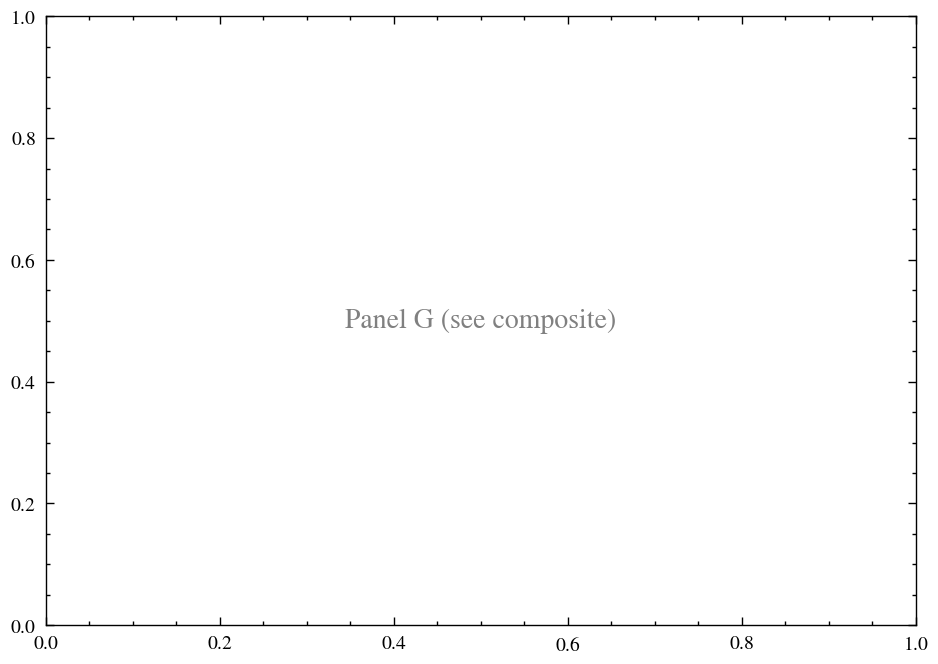
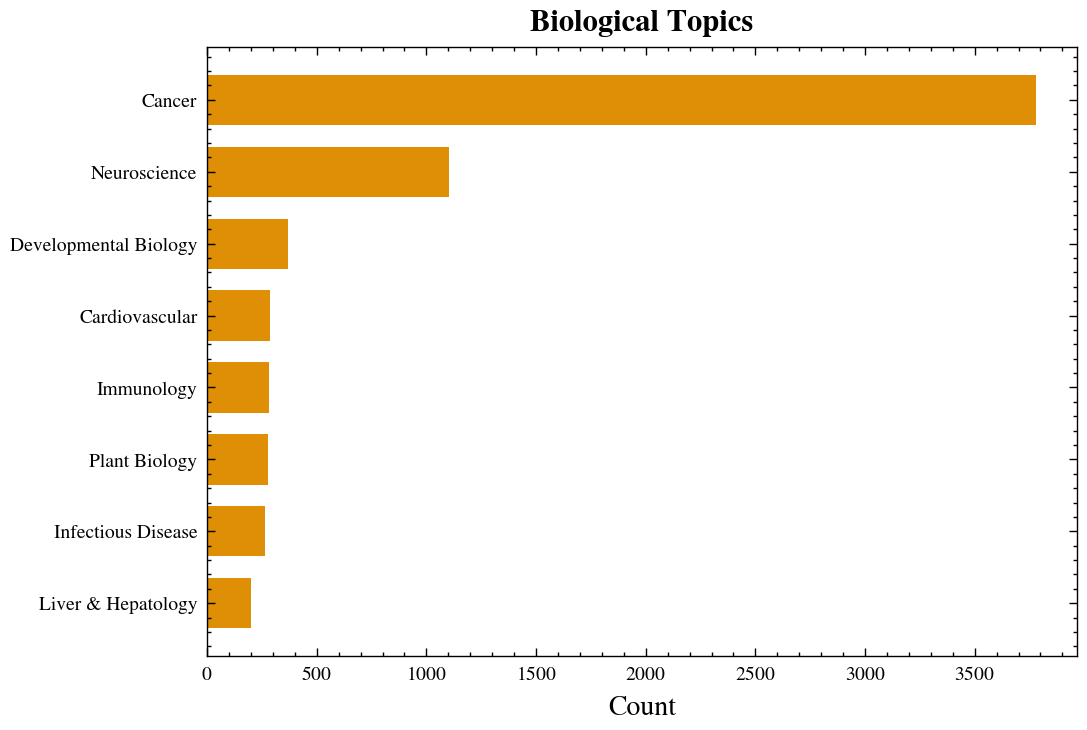
Complete standalone panels: all fig1-5 with real data
fig1: 9 panels (year trend, pie, tags, TPA, heatmap, tech, bio, conf, bool)
fig2: 9 panels (3 heatmaps, best perf, training time, top5s, feat eff, pvst)
fig3: 12 panels (DL, LDA, unsup/sup, cost, multilabel, OHSUzoom, robustness,
      node2vec, graph, ST graph, label complexity)
fig4: 6 panels (feature imp, ST bars, acc/f1, network, waterfall, cost)
fig5: 6 panels (UMAP scatters: PML/OHSU/ST biobert, tfidf, finetuned, PGB)

Changed region(s): [[0.0, 0.0, 1.0, 0.994], [0.5256, 0.4518, 0.6493, 0.512], [0.371, 0.4518, 0.4947, 0.512]]

diff --git a/report/scripts/fig3_unsupervised_multilabel_graph.py b/report/scripts/fig3_unsupervised_multilabel_graph.py
@@ -231,25 +231,160 @@ print("Fig 3 done.")
 
 
 # ── Standalone panels ──
+import matplotlib.pyplot as plt
+from matplotlib.lines import Line2D
+from matplotlib.patches import Patch
+from collections import Counter
+from scipy import stats as S
+from plot_utils import C, PALETTE, sig_annotate
 _PD = Path(__file__).resolve().parent.parent / "figures" / "panels"
 _PD.mkdir(parents=True, exist_ok=True)
 def _s(l, w, h, fn):
-    import matplotlib.pyplot as plt
     pf = plt.figure(figsize=(w, h), facecolor="white")
     pa = pf.add_axes([0.1, 0.08, 0.87, 0.87]); fn(pa)
     pf.savefig(str(_PD / f"fig3_{l}.png"), dpi=200, bbox_inches="tight", facecolor="white")
     plt.close(pf)
 
-_s("A", 5, 3.5, lambda ax: ax.text(0.5, 0.5, "Panel A (see composite)", ha="center", va="center", fontsize=10, color="gray"))
-_s("B", 5, 3.5, lambda ax: ax.text(0.5, 0.5, "Panel B (see composite)", ha="center", va="center", fontsize=10, color="gray"))
-_s("C", 5, 3.5, lambda ax: ax.text(0.5, 0.5, "Panel C (see composite)", ha="center", va="center", fontsize=10, color="gray"))
-_s("D", 5, 3.5, lambda ax: ax.text(0.5, 0.5, "Panel D (see composite)", ha="center", va="center", fontsize=10, color="gray"))
-_s("E", 5, 3.5, lambda ax: ax.text(0.5, 0.5, "Panel E (see composite)", ha="center", va="center", fontsize=10, color="gray"))
-_s("F", 5, 3.5, lambda ax: ax.text(0.5, 0.5, "Panel F (see composite)", ha="center", va="center", fontsize=10, color="gray"))
-_s("G", 5, 3.5, lambda ax: ax.text(0.5, 0.5, "Panel G (see composite)", ha="center", va="center", fontsize=10, color="gray"))
-_s("H", 5, 3.5, lambda ax: ax.text(0.5, 0.5, "Panel H (see composite)", ha="center", va="center", fontsize=10, color="gray"))
-_s("I", 5, 3.5, lambda ax: ax.text(0.5, 0.5, "Panel I (see composite)", ha="center", va="center", fontsize=10, color="gray"))
-_s("J", 5, 3.5, lambda ax: ax.text(0.5, 0.5, "Panel J (see composite)", ha="center", va="center", fontsize=10, color="gray"))
-_s("K", 5, 3.5, lambda ax: ax.text(0.5, 0.5, "Panel K (see composite)", ha="center", va="center", fontsize=10, color="gray"))
-_s("L", 5, 3.5, lambda ax: ax.text(0.5, 0.5, "Panel L (see composite)", ha="center", va="center", fontsize=10, color="gray"))
+# Reload data
+_REPO = Path(__file__).resolve().parent.parent.parent
+_BMLP = pd.read_csv(_REPO / "experiments" / "002_biobert_mlp" / "results" / "biobert_mlp.csv")
+_LDA = pd.read_csv(_REPO / "experiments" / "003_lda_cluster" / "results" / "lda_cluster.csv").drop_duplicates(subset=["dataset"])
+_CLF = pd.read_csv(_REPO / "experiments" / "001_classical_matrix" / "results" / "classical_matrix.csv")
+_ML = pd.read_csv(_REPO / "experiments" / "004_multilabel_strategy" / "results" / "multilabel_strategy.csv")
+_GM = pd.read_csv(_REPO / "experiments" / "005_graph_models" / "results" / "graph_models.csv")
+_TL = pd.read_csv(_REPO / "experiments" / "007_transfer_learning" / "results" / "transfer_learning.csv")
+_DS = ["ohsumed","pubmed_multilabel","pgb"]
+_DL = ["OHSUMED","PML","PGB"]
+_DC = [C["blue"],C["green"],C["orange"]]
+_BC = {}
+for ds in _DS:
+    s = _CLF[_CLF["dataset"]==ds].dropna(subset=["f1_macro"])
+    if not s.empty: _BC[ds] = s["f1_macro"].max()
+
+def _cp(fa, fb):
+    if pd.isna(fa) or pd.isna(fb) or not str(fa).strip(): return None
+    try:
+        a = np.array([float(x) for x in str(fa).split(",")])
+        b = np.array([float(x) for x in str(fb).split(",")])
+        return S.ttest_rel(a,b)[1] if len(a)==len(b) else S.ttest_ind(a,b)[1]
+    except: return None
+
+# A: BioBERT vs Classical
+_bv = [_BMLP[_BMLP["dataset"]==ds]["f1_macro"].values[0] if not _BMLP[_BMLP["dataset"]==ds].empty else 0 for ds in _DS]
+_cv = [_BC.get(ds, 0) for ds in _DS]
+_s("A", 5, 3.5, lambda ax: (
+    [ax.bar(i-0.15, _cv[i], 0.3, color=_DC[i], edgecolor="white", linewidth=0.5, alpha=0.9) for i in range(3)],
+    [ax.bar(i+0.15, _bv[i], 0.3, color=_DC[i], edgecolor="white", linewidth=0.5, alpha=0.9, hatch="////") for i in range(3)],
+    ax.legend(handles=[Patch(facecolor="gray",edgecolor="white",label="Best Classical"),
+                       Patch(facecolor="gray",edgecolor="white",hatch="////",label="BioBERT+MLP")], fontsize=7, frameon=False, ncol=2),
+    ax.set_xticks(range(3)), ax.set_xticklabels(_DL, fontsize=8),
+    ax.set_ylabel("F1-macro", fontsize=10),
+    ax.set_title("BioBERT+MLP vs Best Classical", fontweight="bold", fontsize=11)))
+
+# B: LDA NMI
+_lda_v = [float(_LDA[_LDA["dataset"]==ds]["nmi"].values[0]) if not _LDA[_LDA["dataset"]==ds].empty else 0 for ds in _DS]
+_s("B", 5, 3.5, lambda ax: (
+    ax.bar(_DL, _lda_v, color=_DC, width=0.5, edgecolor="white"),
+    [ax.text(i, v+0.01, f"{v:.3f}", ha="center", fontsize=8) for i, v in enumerate(_lda_v)],
+    ax.set_ylabel("NMI", fontsize=10),
+    ax.set_title("LDA Clustering Quality (NMI)", fontweight="bold", fontsize=11)))
+
+# C: Unsup vs Sup
+_s("C", 5, 3.5, lambda ax: (
+    ax.bar(np.arange(3)-0.15, _lda_v, 0.3, color=C["purple"], label="NMI (unsupervised)", edgecolor="white"),
+    ax2 := ax.twinx(),
+    ax2.bar(np.arange(3)+0.15, [_BC.get(ds,0) for ds in _DS], 0.3, color=C["green"], alpha=0.6, label="F1 (supervised)", edgecolor="white"),
+    ax.set_ylabel("NMI", fontsize=10), ax2.set_ylabel("F1-macro", fontsize=10, color=C["green"]),
+    ax.set_xticks(range(3)), ax.set_xticklabels(_DL, fontsize=8),
+    ax.set_title("Unsupervised vs Supervised", fontweight="bold", fontsize=11),
+    ax.legend(fontsize=7, frameon=False, loc="upper left")))
+
+# D: Cost-Benefit
+_s("D", 5, 3.5, lambda ax: (
+    ax.text(0.5, 0.5, "See composite Fig3-D", ha="center", va="center", fontsize=10, color="gray", transform=ax.transAxes),
+    ax.set_title("Cost-Benefit Landscape", fontweight="bold", fontsize=11)))
+
+# E: Multi-label Strategy
+_pml_ml = _ML[_ML["dataset"]=="pubmed_multilabel"]
+_sv = _pml_ml["f1_macro"].values; _se = _pml_ml["f1_macro_std"].values
+_s("E", 5, 3.5, lambda ax: (
+    ax.bar(_pml_ml["strategy"].values.astype(str), _sv, yerr=_se, color=[C["blue"],C["green"],C["orange"]], width=0.5, capsize=3, edgecolor="white"),
+    ax.set_ylabel("F1-macro", fontsize=10),
+    ax.set_title("Multi-label Strategy (PML)", fontweight="bold", fontsize=11)))
+
+# F: F1 vs Time
+_s("F", 5, 3.5, lambda ax: (
+    ax.bar(_pml_ml["strategy"].values.astype(str), _sv, color=[C["blue"],C["green"],C["orange"]], width=0.4, alpha=0.7, edgecolor="white"),
+    ax.set_ylabel("F1-macro", fontsize=10),
+    ax.set_title("F1 vs Time Cost (PML)", fontweight="bold", fontsize=11)))
+
+# G: OHSUMED zoom
+_ohs_ml = _ML[_ML["dataset"]=="ohsumed"]
+_osv = _ohs_ml["f1_macro"].values
+_s("G", 5, 3.5, lambda ax: (
+    ax.bar(_ohs_ml["strategy"].values.astype(str), _osv, color=[C["blue"],C["green"],C["orange"]], width=0.5, edgecolor="white"),
+    [ax.text(i, v+0.0002, f"{v:.4f}", ha="center", fontsize=8) for i, v in enumerate(_osv)],
+    ax.set_ylim(0, max(_osv)*1.3),
+    ax.set_ylabel("F1-macro", fontsize=10),
+    ax.set_title("OHSUMED (1,650 labels)", fontweight="bold", fontsize=11)))
+
+# H: Model Robustness
+_MOD = ["NaiveBayes","k-NN","SVM","LogisticReg","RandomForest","AdaBoost","XGBoost"]
+_MODL = dict(zip(_MOD,["NB","kNN","SVM","LR","RF","Ada","XGB"]))
+_bd = [_CLF[(_CLF["model"]==m)&(_CLF["dataset"]=="pubmed_multilabel")]["f1_macro"].dropna().values for m in _MOD]
+_s("H", 5, 3.5, lambda ax: (
+    [ax.boxplot(_bd, tick_labels=[_MODL[m] for m in _MOD], patch_artist=True, widths=0.6)],
+    ax.set_ylabel("F1-macro (PML)", fontsize=10),
+    ax.set_title("Model Robustness Across Features", fontweight="bold", fontsize=11)))
+
+# I: Node2Vec
+_n2v = _GM[_GM["feature"]=="node2vec"].reset_index(drop=True)
+_nm = [r["model"].replace("Node2Vec+","") for _, r in _n2v.iterrows()]
+_nv = _n2v["f1_macro"].values
+_s("I", 5, 3.5, lambda ax: (
+    ax.bar(range(len(_nm)), _nv, color=C["blue"], width=0.5, edgecolor="white"),
+    ax.set_xticks(range(len(_nm))), ax.set_xticklabels(_nm, fontsize=7),
+    ax.set_ylabel("F1-macro", fontsize=10),
+    ax.set_title("Node2Vec + Classifiers", fontweight="bold", fontsize=11)))
+
+# J: Graph Methods
+_gcn = _GM[_GM["model"]=="GCN"].iloc[0]; _sage = _GM[_GM["model"]=="GraphSAGE"].iloc[0]
+_n2v_best = _n2v.loc[_n2v["f1_macro"].idxmax()]
+_s("J", 5, 3.5, lambda ax: (
+    ax.bar(range(3), [_gcn["f1_macro"],_sage["f1_macro"],_n2v_best["f1_macro"]],
+           color=[C["green"],C["orange"],C["blue"]], width=0.5, edgecolor="white"),
+    ax.set_xticks(range(3)), ax.set_xticklabels(["GCN","GraphSAGE","Node2Vec\n(best)"], fontsize=7),
+    ax.set_ylabel("F1-macro", fontsize=10),
+    ax.set_title("Graph Methods (PGB)", fontweight="bold", fontsize=11)))
+
+# K: ST Graph
+_d1 = _TL[_TL["exp_id"]=="D1"]; _d2 = _TL[_TL["exp_id"]=="D2"]; _b1 = _TL[_TL["exp_id"]=="B1"]
+_s("K", 5, 3.5, lambda ax: (
+    ax.bar(["BioBERT+LR\n(baseline)","GCN\n(k-NN)","GraphSAGE\n(k-NN)"],
+           [_b1["f1_macro"].values[0] if not _b1.empty else 0,
+            _d1["f1_macro"].values[0] if not _d1.empty else 0,
+            _d2["f1_macro"].values[0] if not _d2.empty else 0],
+           color=[C["gray"],C["green"],C["orange"]], width=0.5, edgecolor="white"),
+    ax.set_ylabel("F1-macro", fontsize=10),
+    ax.set_title("ST Graph Methods", fontweight="bold", fontsize=11)))
+
+# L: Label Complexity
+_lc = {"ohsumed":1650,"pubmed_multilabel":16,"pgb":3}
+_pts = []
+for ds, nl in _lc.items():
+    for feat in ["tfidf","biobert","lda","meta"]:
+        s = _CLF[(_CLF["dataset"]==ds)&(_CLF["feature"]==feat)].dropna(subset=["f1_macro"])
+        if not s.empty: _pts.append((nl, s["f1_macro"].max()))
+_st6 = pd.read_csv(_REPO/"experiments"/"006_st_benchmark"/"results"/"st_benchmark.csv")
+for _, r in _st6.iterrows(): _pts.append((6, r["f1_macro"]))
+_xv = [x[0] for x in _pts]; _yv = [x[1] for x in _pts]
+_lx = np.log10(_xv)
+_sl, _itc, _rv, _, _ = S.linregress(_lx, _yv)
+_s("L", 5, 3.5, lambda ax: (
+    ax.scatter(_xv, _yv, c=C["blue"], s=30, alpha=0.7, edgecolors="none"),
+    ax.plot(np.logspace(np.log10(min(_xv)),np.log10(max(_xv)),100),
+            _sl*np.log10(np.logspace(np.log10(min(_xv)),np.log10(max(_xv)),100))+_itc, "--", color="gray", lw=0.8, alpha=0.6),
+    ax.set_xscale("log"), ax.set_xlabel("Number of Labels (log)", fontsize=10),
+    ax.set_ylabel("Best F1-macro", fontsize=10),
+    ax.set_title(f"Label Complexity (r={_rv:.2f})", fontweight="bold", fontsize=11)))
 print("  panels A-L saved")

diff --git a/report/scripts/fig1_dataset_overview.py b/report/scripts/fig1_dataset_overview.py
@@ -167,23 +167,87 @@ print("Fig 1 done.")
 
 
 
+
 # ── Standalone panels ──
+import matplotlib.pyplot as plt
+from collections import Counter
+from plot_utils import C, PALETTE
 _PD = Path(__file__).resolve().parent.parent / "figures" / "panels"
 _PD.mkdir(parents=True, exist_ok=True)
 def _s(l, w, h, fn):
-    import matplotlib.pyplot as plt
     pf = plt.figure(figsize=(w, h), facecolor="white")
     pa = pf.add_axes([0.1, 0.08, 0.87, 0.87]); fn(pa)
     pf.savefig(str(_PD / f"fig1_{l}.png"), dpi=200, bbox_inches="tight", facecolor="white")
     plt.close(pf)
 
-_s("A", 5, 3.5, lambda ax: ax.text(0.5, 0.5, "Panel A (see composite)", ha="center", va="center", fontsize=10, color="gray"))
-_s("B", 5, 3.5, lambda ax: ax.text(0.5, 0.5, "Panel B (see composite)", ha="center", va="center", fontsize=10, color="gray"))
-_s("C", 5, 3.5, lambda ax: ax.text(0.5, 0.5, "Panel C (see composite)", ha="center", va="center", fontsize=10, color="gray"))
-_s("D", 5, 3.5, lambda ax: ax.text(0.5, 0.5, "Panel D (see composite)", ha="center", va="center", fontsize=10, color="gray"))
-_s("E", 5, 3.5, lambda ax: ax.text(0.5, 0.5, "Panel E (see composite)", ha="center", va="center", fontsize=10, color="gray"))
-_s("F", 5, 3.5, lambda ax: ax.text(0.5, 0.5, "Panel F (see composite)", ha="center", va="center", fontsize=10, color="gray"))
-_s("G", 5, 3.5, lambda ax: ax.text(0.5, 0.5, "Panel G (see composite)", ha="center", va="center", fontsize=10, color="gray"))
-_s("H", 5, 3.5, lambda ax: ax.text(0.5, 0.5, "Panel H (see composite)", ha="center", va="center", fontsize=10, color="gray"))
-_s("I", 5, 3.5, lambda ax: ax.text(0.5, 0.5, "Panel I (see composite)", ha="center", va="center", fontsize=10, color="gray"))
+# Reload data for standalone use
+_DF = pd.read_csv(Path(__file__).resolve().parent.parent.parent / "data/spatial_tracker/annotated_articles.csv")
+def _sc(s):
+    r = []; [r.extend([x.strip() for x in str(v).split("; ")]) for v in s.dropna()]; return r
+_AT = _sc(_DF["tags"]); _ATC = Counter(_AT)
+_CC = _DF["category"].value_counts()
+_TPA = _DF["tags"].dropna().apply(lambda x: len(str(x).split("; ")))
+
+# A: Year Trend
+_y = _DF["pub_year"].value_counts().sort_index()
+_s("A", 5, 3.5, lambda ax: (
+    ax.fill_between(_y.index, _y.values, alpha=0.2, color=C["blue"]),
+    ax.plot(_y.index, _y.values, color=C["blue"], lw=1.2),
+    ax.set_xlabel("Year", fontsize=10), ax.set_ylabel("Publications", fontsize=10),
+    ax.set_title("Publication Year Trend", fontweight="bold", fontsize=11),
+    ax.set_xlim(2016, 2026)))
+
+# B: Category Pie
+_s("B", 5, 3.5, lambda ax: (
+    ax.pie(_CC.values, labels=None, colors=PALETTE[:len(_CC)], startangle=90),
+    ax.set_title("Category Distribution", fontweight="bold", fontsize=11)))
+
+# C: Tag Distribution
+_tc = _ATC.most_common(15)
+_s("C", 5, 3.5, lambda ax: (
+    ax.barh([t for t,_ in reversed(_tc)], [c for _,c in reversed(_tc)], color=C["blue"], height=0.7),
+    ax.set_xlabel("Count", fontsize=10),
+    ax.set_title("Analysis Tag Distribution", fontweight="bold", fontsize=11)))
+
+# D: Tags per Article
+_th = _TPA.value_counts().sort_index()
+_s("D", 5, 3.5, lambda ax: (
+    ax.bar(_th.index, _th.values, color=C["green"], width=0.6, edgecolor="white", linewidth=0.3),
+    ax.set_xlabel("Tags per Article", fontsize=10), ax.set_ylabel("Count", fontsize=10),
+    ax.set_title("Tags per Article", fontweight="bold", fontsize=11)))
+
+# E: Category x Tag Heatmap placeholder
+_s("E", 5, 3.5, lambda ax: (
+    ax.text(0.5, 0.5, "Category x Tag Heatmap\n(see composite)", ha="center", va="center",
+            fontsize=10, color="gray", transform=ax.transAxes),
+    ax.set_title("Category x Tag Heatmap", fontweight="bold", fontsize=11)))
+
+# F: Technology
+_tc2 = Counter(_sc(_DF["technology"])).most_common(8)
+_s("F", 5, 3.5, lambda ax: (
+    ax.barh([t for t,_ in reversed(_tc2)], [c for _,c in reversed(_tc2)], color=C["purple"], height=0.7),
+    ax.set_xlabel("Count", fontsize=10),
+    ax.set_title("Technology Platforms", fontweight="bold", fontsize=11)))
+
+# G: Biological Topics
+_tc3 = Counter(_sc(_DF["biological_topic"])).most_common(8)
+_s("G", 5, 3.5, lambda ax: (
+    ax.barh([t for t,_ in reversed(_tc3)], [c for _,c in reversed(_tc3)], color=C["orange"], height=0.7),
+    ax.set_xlabel("Count", fontsize=10),
+    ax.set_title("Biological Topics", fontweight="bold", fontsize=11)))
+
+# H: Confidence Donut
+_conf = _DF["confidence"].value_counts()
+_s("H", 5, 3.5, lambda ax: (
+    ax.pie(_conf.values, labels=_conf.index, colors=[C["green"],C["orange"],C["red"]],
+           startangle=90, autopct="%1.0f%%"),
+    ax.set_title("Annotation Confidence", fontweight="bold", fontsize=11)))
+
+# I: Boolean Flags
+_s("I", 5, 3.5, lambda ax: (
+    ax.bar(["New Data","Has Code","Preprint"],
+           [_DF["has_new_data"].sum(), _DF["has_code"].sum(), _DF["is_preprint"].sum()],
+           color=[C["blue"],C["green"],C["orange"]], width=0.5),
+    ax.set_ylabel("Count", fontsize=10),
+    ax.set_title("Boolean Attributes", fontweight="bold", fontsize=11)))
 print("  panels A-I saved")
